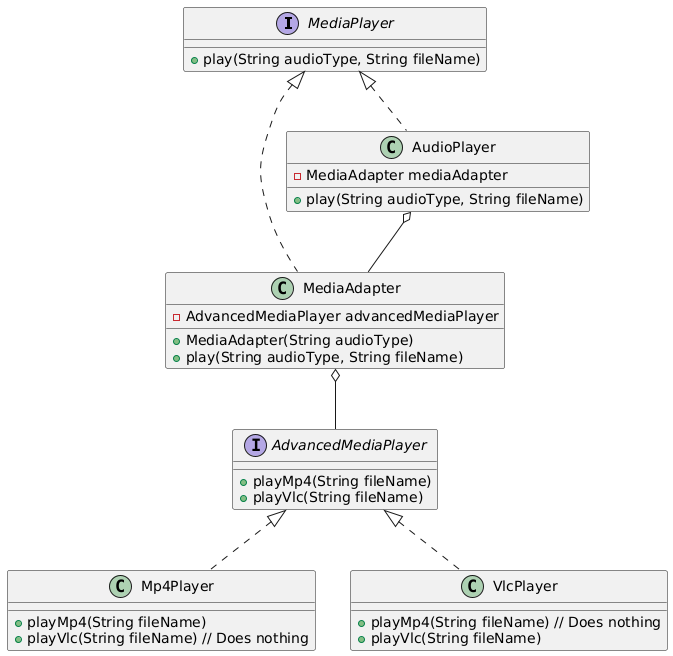
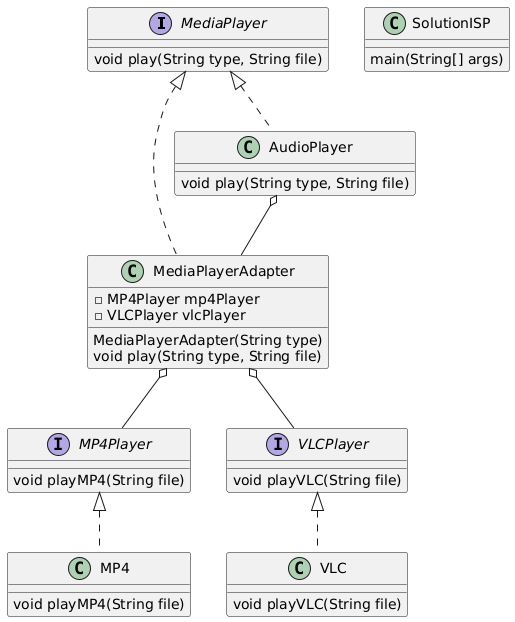
structural-adapter pattern

diff --git a/structuralPattern/adapterPattern/basicImplementation/solution/SolutionISP.java b/structuralPattern/adapterPattern/basicImplementation/solution/SolutionISP.java
@@ -1,0 +1,73 @@
+package structuralPattern.adapterPattern.basicImplementation.solution;
+
+import java.util.InputMismatchException;
+
+// Segregated interfaces for specific media types
+interface MediaPlayer {
+    void play(String type, String file);
+}
+
+interface MP4Player {
+    void playMP4(String file);
+}
+
+interface VLCPlayer {
+    void playVLC(String file);
+}
+
+class MP4 implements MP4Player {
+    public void playMP4(String file){
+        System.out.println("Playing " + file + " using " + this.getClass().getSimpleName());
+    }
+}
+
+class VLC implements VLCPlayer {
+    public void playVLC(String file) {
+        System.out.println("Playing " + file + " using " + this.getClass().getSimpleName());
+    }
+}
+
+class MediaPlayerAdapter implements MediaPlayer {
+    private MP4Player mp4Player;
+    private VLCPlayer vlcPlayer;
+    
+    public MediaPlayerAdapter(String type) {
+        if (type.equalsIgnoreCase("MP4")) {
+            mp4Player = new MP4();
+        } else if (type.equalsIgnoreCase("VLC")) {
+            vlcPlayer = new VLC();
+        }
+    }
+    
+    public void play(String type, String file) {
+        if (type.equalsIgnoreCase("MP4") && mp4Player != null) {
+            mp4Player.playMP4(file);
+        } else if (type.equalsIgnoreCase("VLC") && vlcPlayer != null) {
+            vlcPlayer.playVLC(file);
+        } else {
+            throw new InputMismatchException("Unsupported format: " + type);
+        }
+    }
+}
+
+class AudioPlayer implements MediaPlayer {
+    public void play(String type, String file) {
+        if (type.equalsIgnoreCase("MP3")) {
+            System.out.println("Playing MP3 song: " + file);
+        } else if (type.equalsIgnoreCase("MP4") || type.equalsIgnoreCase("VLC")) {
+            MediaPlayerAdapter adapter = new MediaPlayerAdapter(type);
+            adapter.play(type, file);
+        } else {
+            throw new InputMismatchException("Unsupported format: " + type);
+        }
+    }
+}
+
+public class SolutionISP {
+    public static void main(String[] args) {
+        AudioPlayer audioPlayer = new AudioPlayer();
+        audioPlayer.play("MP3", "SONG1");
+        audioPlayer.play("MP4", "SONG2");
+        audioPlayer.play("VLC", "SONG3");
+    }
+}
